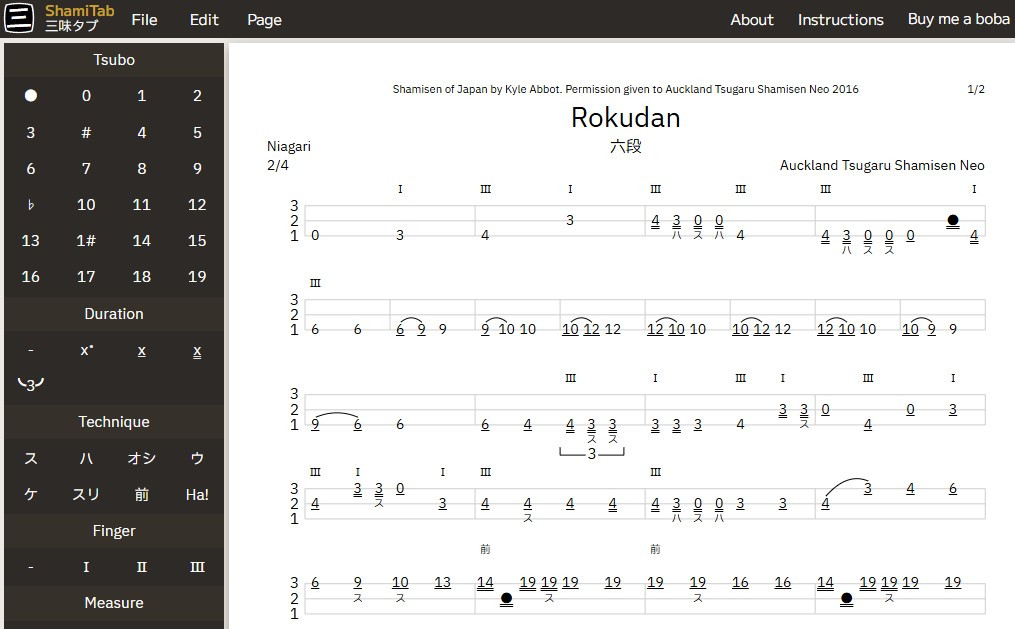
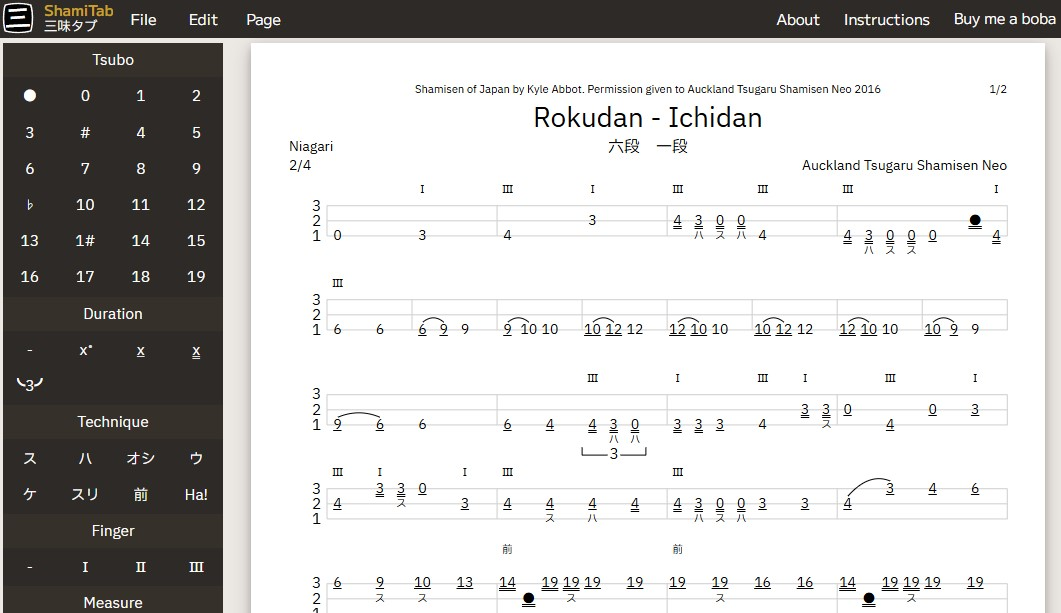
Japanese language added. Resizing of elements needed. Updated preview image.

diff --git a/index.html b/index.html
@@ -29,7 +29,8 @@
       <button type="button" class="menu-btn" data-menu="edit">Edit</button>
       <button type="button" class="menu-btn" data-menu="page">Page</button>
       <div class="menu-right">
-        <button type="button" class="menu-btn" onclick="window.open('about.html', '_blank')">About</button>
+        <button type="button" class="menu-btn lang-toggle" id="lang-toggle">日本語</button>
+        <button type="button" class="menu-btn" id="about-btn">About</button>
         <button type="button" class="menu-btn" id="info-btn">Instructions</button>
         <a href="https://ko-fi.com/shamiworks" class="menu-btn kofi-btn" id="kofi-btn">Buy me a boba</a>
       </div>
@@ -37,7 +38,7 @@
 
     <div class="menu-dropdown file-menu" data-menu="file">
       <div class="has-submenu">
-        <button type="button" class="menu-dropdown-btn">New ▶</button>
+        <button type="button" class="menu-dropdown-btn" id="new-submenu">New ▶</button>
         <div class="submenu">
           <button type="button" class="menu-dropdown-btn" id="new-staff-page">Staff Page</button>
           <button type="button" class="menu-dropdown-btn" id="new-lyric-page">Staff and Lyric Page</button>
@@ -49,10 +50,10 @@
     </div>
 
     <div class="menu-dropdown edit-menu" data-menu="edit">
-      <button type="button" class="menu-dropdown-btn" style="text-decoration: line-through">Undo</button>
-      <button type="button" class="menu-dropdown-btn" style="text-decoration: line-through">Redo</button>
-      <button type="button" class="menu-dropdown-btn" style="text-decoration: line-through">Copy</button>
-      <button type="button" class="menu-dropdown-btn" style="text-decoration: line-through">Paste</button>
+      <button type="button" class="menu-dropdown-btn" id="edit-undo" style="text-decoration: line-through">Undo</button>
+      <button type="button" class="menu-dropdown-btn" id="edit-redo" style="text-decoration: line-through">Redo</button>
+      <button type="button" class="menu-dropdown-btn" id="edit-copy" style="text-decoration: line-through">Copy</button>
+      <button type="button" class="menu-dropdown-btn" id="edit-paste" style="text-decoration: line-through">Paste</button>
     </div>
 
     <div class="menu-dropdown page-menu" data-menu="page">
@@ -209,16 +210,16 @@
         <button type="button" class="palette-btn" data-action="measure" data-value="8" title="8 measures">8</button>
       </div>
       <div class="palette-item">
-        <button type="button" class="palette-btn" data-action="barline-type" data-value="stop" title="Stop barline">𝄁</button>
+        <button type="button" class="palette-btn, palette-bar-line" data-action="barline-type" data-value="stop" title="Stop barline">𝄁</button>
       </div>
       <div class="palette-item">
-        <button type="button" class="palette-btn" data-action="barline-type" data-value="open-repeat" title="Open repeat">𝄆</button>
+        <button type="button" class="palette-btn, palette-bar-line" data-action="barline-type" data-value="open-repeat" title="Open repeat">𝄆</button>
       </div>
       <div class="palette-item">
-        <button type="button" class="palette-btn" data-action="barline-type" data-value="close-repeat" title="Close repeat">𝄇</button>
+        <button type="button" class="palette-btn, palette-bar-line" data-action="barline-type" data-value="close-repeat" title="Close repeat">𝄇</button>
       </div>
       <div class="palette-item">
-        <button type="button" class="palette-btn" data-action="barline-type" data-value="normal" title="Normal barline">𝄀</button>
+        <button type="button" class="palette-btn, palette-bar-line" data-action="barline-type" data-value="normal" title="Normal barline">𝄀</button>
       </div>
       <div class="palette-header">Editing</div>
       <div class="palette-item">
@@ -246,42 +247,42 @@
   <div class="info-panel" id="info-panel">
     <button class="info-close" id="info-close">✕</button>
 
-    <h2>Getting started</h2>
-    <p>Hover over the notation area to highlight time divisions and string slots. Click a string slot to select it — selected slots are shown with an outline. You can then enter a tsubo using the keyboard or palette. Click a time division outside a string slot to select the division only — this is needed for some techniques.</p>
+    <h2 data-en="Getting started" data-ja="はじめに">Getting started</h2>
+    <p data-en="Hover over the notation area to highlight time divisions and string slots. Click a string slot to select it — selected slots are shown with an outline. You can then enter a tsubo using the keyboard or palette. Click a time division outside a string slot to select the division only — this is needed for some techniques." data-ja="譜面エリアにカーソルを合わせると、タイム・ディビジョンと糸スロットがハイライトされます。糸スロットをクリックして選択すると、枠で囲まれた状態になります。キーボードまたはパレットからツボを入力できます。糸スロット以外のタイム・ディビジョンをクリックすると、ディビジョンのみが選択されます（一部の奏法で必要です）。">Hover over the notation area to highlight time divisions and string slots. Click a string slot to select it — selected slots are shown with an outline. You can then enter a tsubo using the keyboard or palette. Click a time division outside a string slot to select the division only — this is needed for some techniques.</p>
 
-    <h2>Changing the number of measures</h2>
-    <p>Click anywhere on a staff unit to select it — the unit is outlined when selected. Then click Free, 2, 4, or 8 in the palette.</p>
+    <h2 data-en="Changing the number of measures" data-ja="小節数の変更">Changing the number of measures</h2>
+    <p data-en="Click anywhere on a staff unit to select it — the unit is outlined when selected. Then click Free, 2, 4, or 8 in the palette." data-ja="スタッフ・ユニットをクリックして選択すると、枠で囲まれた状態になります。パレットの「フリー」「2」「4」「8」をクリックして小節数を変更します。">Click anywhere on a staff unit to select it — the unit is outlined when selected. Then click Free, 2, 4, or 8 in the palette.</p>
 
-    <h2>Changing barline types</h2>
-    <p>Alt+click a barline to select it, then choose normal, repeat, or stop from the palette.</p>
+    <h2 data-en="Changing barline types" data-ja="縦線の種類の変更">Changing barline types</h2>
+    <p data-en="Alt+click a barline to select it, then choose normal, repeat, or stop from the palette." data-ja="Alt+クリックで縦線を選択し、パレットから通常線・反復記号・終止線を選択します。">Alt+click a barline to select it, then choose normal, repeat, or stop from the palette.</p>
 
-    <h2>Suri and oshibachi</h2>
-    <p>Enter the starting tsubo and the target tsubo. Select the starting tsubo slot. Press I for suri or O for oshibachi. The arc will be drawn between the two tsubo. Both must be in the same staff unit.</p>
+    <h2 data-en="Suri and oshibachi" data-ja="スリとオシバチ">Suri and oshibachi</h2>
+    <p data-en="Enter the starting tsubo and the target tsubo. Select the starting tsubo slot. Press I for suri or O for oshibachi. The arc will be drawn between the two tsubo. Both must be in the same staff unit." data-ja="起点のツボと目標のツボを入力します。起点のツボスロットを選択し、スリは I キー、オシバチは O キーを押します。2つのツボは同じスタッフ・ユニット内にある必要があります。">Enter the starting tsubo and the target tsubo. Select the starting tsubo slot. Press I for suri or O for oshibachi. The arc will be drawn between the two tsubo. Both must be in the same staff unit.</p>
 
-    <h2>Triplets</h2>
-    <p>Select a time division and press T. Three consecutive divisions are grouped as a triplet and a bracket is drawn below the staff. The fourth division is disabled. To remove a triplet, select any active tsubo in the group and press T again, or press Backspace.</p>
+    <h2 data-en="Triplets" data-ja="三連符">Triplets</h2>
+    <p data-en="Select a time division and press T. Three consecutive divisions are grouped as a triplet and a bracket is drawn below the staff. The fourth division is disabled. To remove a triplet, select any active tsubo in the group and press T again, or press Backspace." data-ja="タイム・ディビジョンを選択して T キーを押します。連続する3つのディビジョンが三連符としてグループ化され、譜面の下にブラケットが描かれます。4つ目のディビジョンは無効になります。三連符を解除するには、グループ内のいずれかのツボを選択して T キーを押すか、Backspace キーを押します。">Select a time division and press T. Three consecutive divisions are grouped as a triplet and a bracket is drawn below the staff. The fourth division is disabled. To remove a triplet, select any active tsubo in the group and press T again, or press Backspace.</p>
 
-    <h2>Keyboard shortcuts</h2>
+    <h2 data-en="Keyboard shortcuts" data-ja="キーボード・ショートカット">Keyboard shortcuts</h2>
     <table class="shortcut-table">
-      <tr><td>0–9</td><td>Tsubo</td></tr>
-      <tr><td>#</td><td>Sharp</td></tr>
-      <tr><td>B</td><td>Flat</td></tr>
-      <tr><td>R</td><td>Rest</td></tr>
-      <tr><td>D</td><td>Duration underline (cycles: none → single → double)</td></tr>
-      <tr><td>.</td><td>Duration dot</td></tr>
-      <tr><td>S</td><td>Sukui</td></tr>
-      <tr><td>H</td><td>Hajiki</td></tr>
-      <tr><td>K</td><td>Keshi</td></tr>
-      <tr><td>U</td><td>Uchi</td></tr>
-      <tr><td>M</td><td>Maebachi</td></tr>
-      <tr><td>A</td><td>Ha</td></tr>
-      <tr><td>I</td><td>Suri (with starting tsubo selected)</td></tr>
-      <tr><td>O</td><td>Oshibachi (with starting tsubo selected)</td></tr>
-      <tr><td>T</td><td>Triplet (with starting tsubo selected)</td></tr>
-      <tr><td>F</td><td>Finger (cycles: none → Ⅰ → Ⅱ → Ⅲ)</td></tr>
-      <tr><td>Backspace</td><td>Clear</td></tr>
-      <tr><td>Escape</td><td>Deselect</td></tr>
-      <tr><td>Arrow keys</td><td>Navigate</td></tr>
+      <tr><td>0–9</td><td data-en="Tsubo" data-ja="ツボ">Tsubo</td></tr>
+      <tr><td>#</td><td data-en="Sharp" data-ja="シャープ">Sharp</td></tr>
+      <tr><td>B</td><td data-en="Flat" data-ja="フラット">Flat</td></tr>
+      <tr><td>R</td><td data-en="Rest" data-ja="休符">Rest</td></tr>
+      <tr><td>D</td><td data-en="Duration underline (cycles: none → single → double)" data-ja="音価の下線（なし→一本→二本）">Duration underline (cycles: none → single → double)</td></tr>
+      <tr><td>.</td><td data-en="Duration dot" data-ja="付点">Duration dot</td></tr>
+      <tr><td>S</td><td data-en="Sukui" data-ja="スクイ">Sukui</td></tr>
+      <tr><td>H</td><td data-en="Hajiki" data-ja="ハジキ">Hajiki</td></tr>
+      <tr><td>K</td><td data-en="Keshi" data-ja="ケシ">Keshi</td></tr>
+      <tr><td>U</td><td data-en="Uchi" data-ja="ウチ">Uchi</td></tr>
+      <tr><td>M</td><td data-en="Maebachi" data-ja="前バチ">Maebachi</td></tr>
+      <tr><td>A</td><td data-en="Ha" data-ja="ハ！">Ha</td></tr>
+      <tr><td>I</td><td data-en="Suri (with starting tsubo selected)" data-ja="スリ（起点ツボを選択した状態で）">Suri (with starting tsubo selected)</td></tr>
+      <tr><td>O</td><td data-en="Oshibachi (with starting tsubo selected)" data-ja="オシバチ（起点ツボを選択した状態で）">Oshibachi (with starting tsubo selected)</td></tr>
+      <tr><td>T</td><td data-en="Triplet (with time division selected)" data-ja="三連符（タイム・ディビジョンを選択した状態で）">Triplet (with time division selected)</td></tr>
+      <tr><td>F</td><td data-en="Finger (cycles: none → Ⅰ → Ⅱ → Ⅲ)" data-ja="指番号（なし→Ⅰ→Ⅱ→Ⅲ）">Finger (cycles: none → Ⅰ → Ⅱ → Ⅲ)</td></tr>
+      <tr><td>Backspace</td><td data-en="Clear" data-ja="クリア">Clear</td></tr>
+      <tr><td>Escape</td><td data-en="Deselect" data-ja="選択解除">Deselect</td></tr>
+      <tr><td>Arrow keys</td><td data-en="Navigate" data-ja="移動">Navigate</td></tr>
     </table>
   </div>
 

diff --git a/js/app.js b/js/app.js
@@ -16,9 +16,14 @@ menuButtons.forEach(button => {
     e.stopPropagation();
 
     const menuName = button.dataset.menu;
-    const menu = document.querySelector(
-      `.menu-dropdown[data-menu="${menuName}"]`
-    );
+    const menu = menuName
+      ? document.querySelector(`.menu-dropdown[data-menu="${menuName}"]`)
+      : null;
+
+    if (!menu) {
+      closeAllMenus();
+      return;
+    }
 
     const isOpen = menu.classList.contains("open");
 
@@ -175,7 +180,7 @@ function generatePage(pageType, pageNumber) {
 
   const watermark = document.createElement("div");
   watermark.className = "watermark";
-  watermark.textContent = "Created with ShamiTab by ShamiWorks";
+  watermark.textContent = (STRINGS[currentLang] || STRINGS.en).watermark;
   pageContent.appendChild(watermark);
 
   document.querySelector(".workspace").appendChild(page);
@@ -2277,4 +2282,164 @@ document.getElementById("delete-page").addEventListener("click", () => {
   page.remove();
   updatePageNumbers();
 });
+
+/*
+======================================================
+  Language / i18n
+======================================================
+*/
+
+const STRINGS = {
+  en: {
+    'lang-toggle':           '日本語',
+    'data-menu-file':        'File',
+    'data-menu-edit':        'Edit',
+    'data-menu-page':        'Page',
+    'about-btn':             'About',
+    'info-btn':              'Instructions',
+    'kofi-btn':              'Buy me a boba',
+    'new-submenu':           'New ▶',
+    'new-staff-page':        'Staff Page',
+    'new-lyric-page':        'Staff and Lyric Page',
+    'open-file':             'Open',
+    'save-file':             'Save',
+    'print-file':            'Print',
+    'edit-undo':             'Undo',
+    'edit-redo':             'Redo',
+    'edit-copy':             'Copy',
+    'edit-paste':            'Paste',
+    'add-staff-page':        'Add Staff Page',
+    'add-lyric-page':        'Add Staff and Lyric Page',
+    'clear-page':            'Clear Page',
+    'delete-page':           'Delete Page',
+    'palette-header-tsubo':     'Tsubo',
+    'palette-header-duration':  'Duration',
+    'palette-header-technique': 'Technique',
+    'palette-header-finger':    'Finger',
+    'palette-header-measure':   'Measure',
+    'palette-header-editing':   'Editing',
+    'palette-measure-0':     'Free',
+    'palette-clear':         'Clear',
+    'palette-copy':          'Copy',
+    'palette-paste':         'Paste',
+    'watermark':             'Created with ShamiTab by ShamiWorks',
+  },
+  ja: {
+    'lang-toggle':           'English',
+    'data-menu-file':        'ファイル',
+    'data-menu-edit':        '編集',
+    'data-menu-page':        'ページ',
+    'about-btn':             'アプリについて',
+    'info-btn':              '使い方',
+    'kofi-btn':              'ボバをおごる',
+    'new-submenu':           '新規 ▶',
+    'new-staff-page':        '譜面ページ',
+    'new-lyric-page':        '譜面＋歌詞ページ',
+    'open-file':             '開く',
+    'save-file':             '保存',
+    'print-file':            '印刷',
+    'edit-undo':             '元に戻す',
+    'edit-redo':             'やり直す',
+    'edit-copy':             'コピー',
+    'edit-paste':            '貼り付け',
+    'add-staff-page':        '譜面ページを追加',
+    'add-lyric-page':        '譜面＋歌詞ページを追加',
+    'clear-page':            'ページをクリア',
+    'delete-page':           'ページを削除',
+    'palette-header-tsubo':     'ツボ',
+    'palette-header-duration':  '音価',
+    'palette-header-technique': '奏法',
+    'palette-header-finger':    '指番号',
+    'palette-header-measure':   '小節',
+    'palette-header-editing':   '編集',
+    'palette-measure-0':     'フリー',
+    'palette-clear':         'クリア',
+    'palette-copy':          'コピー',
+    'palette-paste':         '貼り付け',
+    'watermark':             '三味ワークス「三味タブ」で作成',
+  }
+};
+
+let currentLang = 'en';
+
+function setLanguage(lang) {
+  currentLang = lang;
+  localStorage.setItem('lang', lang);
+  const s = STRINGS[lang];
+
+  // Toggle button
+  document.getElementById('lang-toggle').textContent = s['lang-toggle'];
+
+  // Menubar — data-menu buttons
+  document.querySelector('[data-menu="file"]').textContent = s['data-menu-file'];
+  document.querySelector('[data-menu="edit"]').textContent = s['data-menu-edit'];
+  document.querySelector('[data-menu="page"]').textContent = s['data-menu-page'];
+
+  // Menu-right buttons
+  document.getElementById('about-btn').textContent = s['about-btn'];
+  document.getElementById('info-btn').textContent  = s['info-btn'];
+  document.getElementById('kofi-btn').textContent  = s['kofi-btn'];
+
+  // File menu
+  document.getElementById('new-submenu').textContent    = s['new-submenu'];
+  document.getElementById('new-staff-page').textContent = s['new-staff-page'];
+  document.getElementById('new-lyric-page').textContent = s['new-lyric-page'];
+  document.getElementById('open-file').textContent      = s['open-file'];
+  document.getElementById('save-file').textContent      = s['save-file'];
+  document.getElementById('print-file').textContent     = s['print-file'];
+
+  // Edit menu
+  document.getElementById('edit-undo').textContent  = s['edit-undo'];
+  document.getElementById('edit-redo').textContent  = s['edit-redo'];
+  document.getElementById('edit-copy').textContent  = s['edit-copy'];
+  document.getElementById('edit-paste').textContent = s['edit-paste'];
+
+  // Page menu
+  document.getElementById('add-staff-page').textContent = s['add-staff-page'];
+  document.getElementById('add-lyric-page').textContent = s['add-lyric-page'];
+  document.getElementById('clear-page').textContent     = s['clear-page'];
+  document.getElementById('delete-page').textContent    = s['delete-page'];
+
+  // Palette headers (in DOM order: Tsubo, Duration, Technique, Finger, Measure, Editing)
+  const paletteHeaderKeys = [
+    'palette-header-tsubo',
+    'palette-header-duration',
+    'palette-header-technique',
+    'palette-header-finger',
+    'palette-header-measure',
+    'palette-header-editing',
+  ];
+  document.querySelectorAll('.palette-header').forEach((el, i) => {
+    if (paletteHeaderKeys[i]) el.textContent = s[paletteHeaderKeys[i]];
+  });
+
+  // Palette buttons
+  document.querySelector('[data-action="measure"][data-value="0"]').textContent   = s['palette-measure-0'];
+  document.querySelector('[data-action="clear"]').textContent                     = s['palette-clear'];
+  document.querySelector('[data-action="editing"][data-value="copy"]').textContent  = s['palette-copy'];
+  document.querySelector('[data-action="editing"][data-value="paste"]').textContent = s['palette-paste'];
+
+  // Watermarks (existing pages)
+  document.querySelectorAll('.watermark').forEach(el => {
+    el.textContent = s['watermark'];
+  });
+
+  // Info panel — elements with data-en / data-ja
+  document.querySelectorAll('[data-en]').forEach(el => {
+    el.textContent = el.dataset[lang];
+  });
+}
+
+// About button — open correct page for active language
+document.getElementById('about-btn').addEventListener('click', () => {
+  window.open(currentLang === 'ja' ? 'about-ja.html' : 'about.html', '_blank');
+});
+
+// Lang toggle button
+document.getElementById('lang-toggle').addEventListener('click', () => {
+  setLanguage(currentLang === 'en' ? 'ja' : 'en');
+});
+
+// Init on load
+setLanguage(localStorage.getItem('lang') || 'en');
 

diff --git a/about-ja.html b/about-ja.html
@@ -1,9 +1,9 @@
 <!doctype html>
-<html lang="en">
+<html lang="ja">
 <head>
   <meta charset="utf-8" />
   <meta name="viewport" content="width=device-width, initial-scale=1" />
-  <title>ShamiTab — About</title>
+  <title>三味タブ — アプリについて</title>
   <link rel="stylesheet" href="css/styles.css" />
   <link href="https://fonts.googleapis.com/css2?family=IBM+Plex+Sans+JP&display=swap" rel="stylesheet">
   <link href="https://fonts.googleapis.com/css2?family=M+PLUS+2:wght@100..900&display=swap" rel="stylesheet">
@@ -69,29 +69,29 @@
       <div class="menu-title-ja">三味タブ</div>
     </div>
     <div class="menu-right">
-      <a href="about-ja.html" class="menu-btn">日本語</a>
+      <a href="about.html" class="menu-btn">English</a>
     </div>
   </div>
 
   <div class="about-content">
     <img src="assets/shamiworks-logo-white.svg" class="about-logo" alt="ShamiWorks logo" />
-    <h1>ShamiTab</h1>
-    <p class="version">Version 1</p>
+    <h1>三味タブ</h1>
+    <p class="version">バージョン1</p>
 
-    <p>ShamiTab is a free web-based notation app for shamisen, designed primarily for Tsugaru style. Create, edit and print tablature directly in your browser.</p>
+    <p>ShamiTabは、津軽三味線を主な対象とした、無料のウェブベースの三味線タブ譜作成アプリです。ブラウザ上でタブ譜を作成・編集・印刷できます。</p>
 
-    <h2>Created by ShamiWorks</h2>
-    <p>ShamiTab is free to use. If you find it useful, you can support its development:</p>
-    <p><a href="https://ko-fi.com/shamiworks" id="kofi-link">Buy me a boba</a></p>
+    <h2>三味ワークス制作</h2>
+    <p>ShamiTabは無料でご利用いただけます。役に立つと感じたら、開発をサポートしてください：</p>
+    <p><a href="https://ko-fi.com/shamiworks" id="kofi-link">ボバをおごる</a></p>
 
-    <h2>Feedback</h2>
-    <p>Have a suggestion or found a bug? We'd love to hear from you:</p>
-    <p><a href="https://forms.gle/WFv3D6mqqEGeypJU8" target="_blank">Share your feedback</a></p>
+    <h2>フィードバック</h2>
+    <p>ご意見やバグ報告はこちら：</p>
+    <p><a href="https://forms.gle/WFv3D6mqqEGeypJU8" target="_blank">フィードバックを送る</a></p>
 
-    <h2>Licence</h2>
-    <p>ShamiTab is released under the Creative Commons Attribution 4.0 International licence (CC BY 4.0). You are free to share and adapt this work provided you give appropriate credit to ShamiWorks.</p>
+    <h2>ライセンス</h2>
+    <p>ShamiTabはクリエイティブ・コモンズ 表示 4.0 国際ライセンス（CC BY 4.0）のもとで公開されています。三味ワークスへの適切なクレジット表示を条件に、自由に共有・改変できます。</p>
 
-    <a class="back-btn" href="index.html">← Back to ShamiTab</a>
+    <a class="back-btn" href="index.html">← 三味タブに戻る</a>
   </div>
 </body>
 </html>

diff --git a/css/styles.css b/css/styles.css
@@ -144,7 +144,7 @@ body {
 
 .menu-btn {
     border: none;
-    width: 60px;
+    width: 80px;
     color: white;
     font-family: "M Plus 2", sans-serif;
     background: #2e2a27;
@@ -259,7 +259,7 @@ body {
     top: 45px;
     left: 5px;
     height: 700px;
-    width: 220px;
+    width: 290px;
     z-index: 100;
     overflow: hidden;
     background: #2e2a27;
